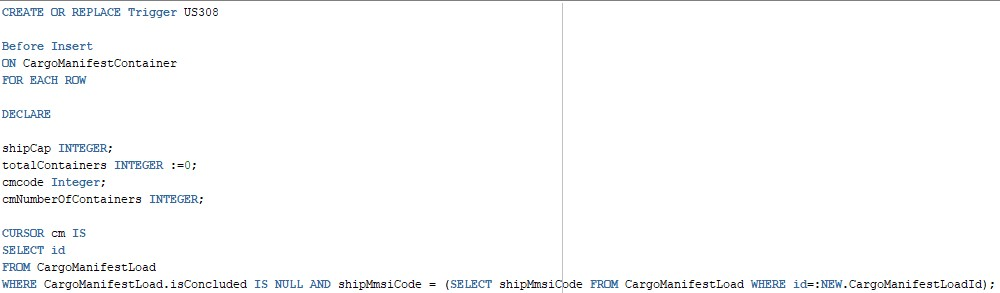
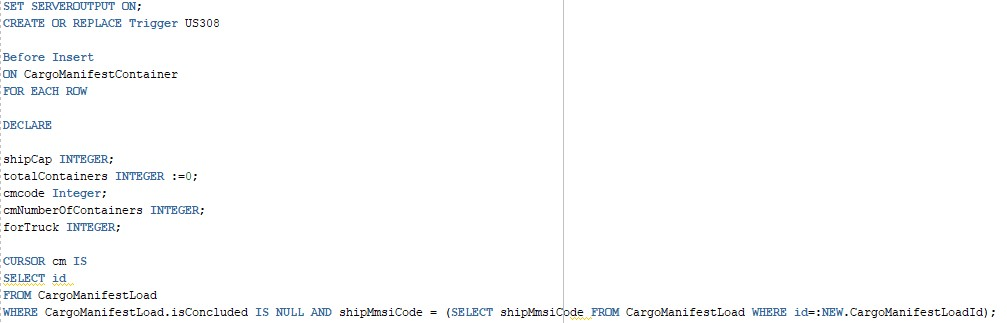
G42-187 #time 2h #comment Report fixes & us308 update

diff --git a/docs/US305/US305.md b/docs/US305/US305.md
@@ -10,7 +10,7 @@
 ![SD_US305](US305_SD.svg)
 
 ## *Script Analysis*
-#### 1. O Script receberá por parâmetro o “registrationCode”, isto é, o identificador do contentor e retornará uma String que conterá as informações desejadas sobre o percurso do respetivo contentor. Foram declaradas as variáveis demonstradas na figura seguinte. O Cursor será responsável por iterar os Cargo Manifests Load cujo contentor está inserido.
+#### 1. O Script receberá por parâmetro o “containerId”, isto é, o identificador do contentor e o "registrationCode", o identificador do cliente. Retornará uma String que conterá as informações desejadas sobre o percurso do respetivo contentor. Foram declaradas as variáveis demonstradas na figura seguinte. O Cursor será responsável por iterar os Cargo Manifests Load cujo contentor está inserido.
 ![Script_analysis_1](305_md/305_script1.jpg)
 
 #### 2. É necessário obter a informação da "fase atual" assim como o primeiro meio de transporte para dar início ao ciclo que irá trabalhar o percurso do contentor. Até se alcançar a "fase atual" procede-se à listagem das informações referentes a cada fase, ou seja, par de portos onde o contentor esteve - origem, destino, data de partida e de chegada.

diff --git a/Readme.md b/Readme.md
@@ -108,7 +108,25 @@ It should allow the Traffic Manager to import ships, see Ships's different data 
 ####  US208 - Francisco Redol & Manuela Leite
 ####  US209 - Pedro Rocha & Rita Ariana Sobral
 ####  US210 - Manuela Leite, Francisco Redol, Pedro Rocha & Rita Ariana Sobral
-
+####  US301 - Rita Ariana Sobral & Francisco Redol
+####  US302 - Manuela Leite
+####  US303 - Rita Ariana Sobral & Pedro Rocha
+####  US304 - Manuela Leite & Rita Ariana Sobral
+####  US305 - Pedro Rocha & Francisco Redol
+####  US306 - Manuela Leite & Pedro Rocha
+####  US307 - Rita Ariana Sobral & Francisco Redol
+####  US308 - Pedro Rocha & Francisco Redol
+####  US309 - Pedro Rocha & Manuela Leite
+####  US310 - Manuela Leite, Francisco Redol, Pedro Rocha & Rita Ariana Sobral
+####  US312 - Rita Ariana Sobral
+####  US313 - Manuela Leite
+####  US314 - Pedro Rocha
+####  US315 - Francisco Redol
+####  US316 - Rita Ariana Sobral
+####  US317 - Manuela Leite
+####  US318 - Francisco Redol
+####  US319 - Rita Ariana Sobral
+####  US320 - Pedro Rocha
 
 ## Solution
 

diff --git a/docs/US308/US308.md b/docs/US308/US308.md
@@ -15,7 +15,7 @@
 ---
 
 ## *Script Analysis*
-#### Para atender os resiquistos impostos pela US308, começamos por criar um Trigger que não permite que o número de Contentores num Cargo Manifest excede a capacidade disponível no Ship. Iterou-se os Cargo Manifest incompletos do respectivo Ship.
+#### Para atender os resiquistos impostos pela US308, começamos por criar um Trigger que não permite que o número de Contentores num Cargo Manifest exceda a capacidade disponível no Ship. Iterou-se os Cargo Manifest incompletos do respectivo Ship.
 
 ![308_script1](report_aux/308_script1.jpg)
 
